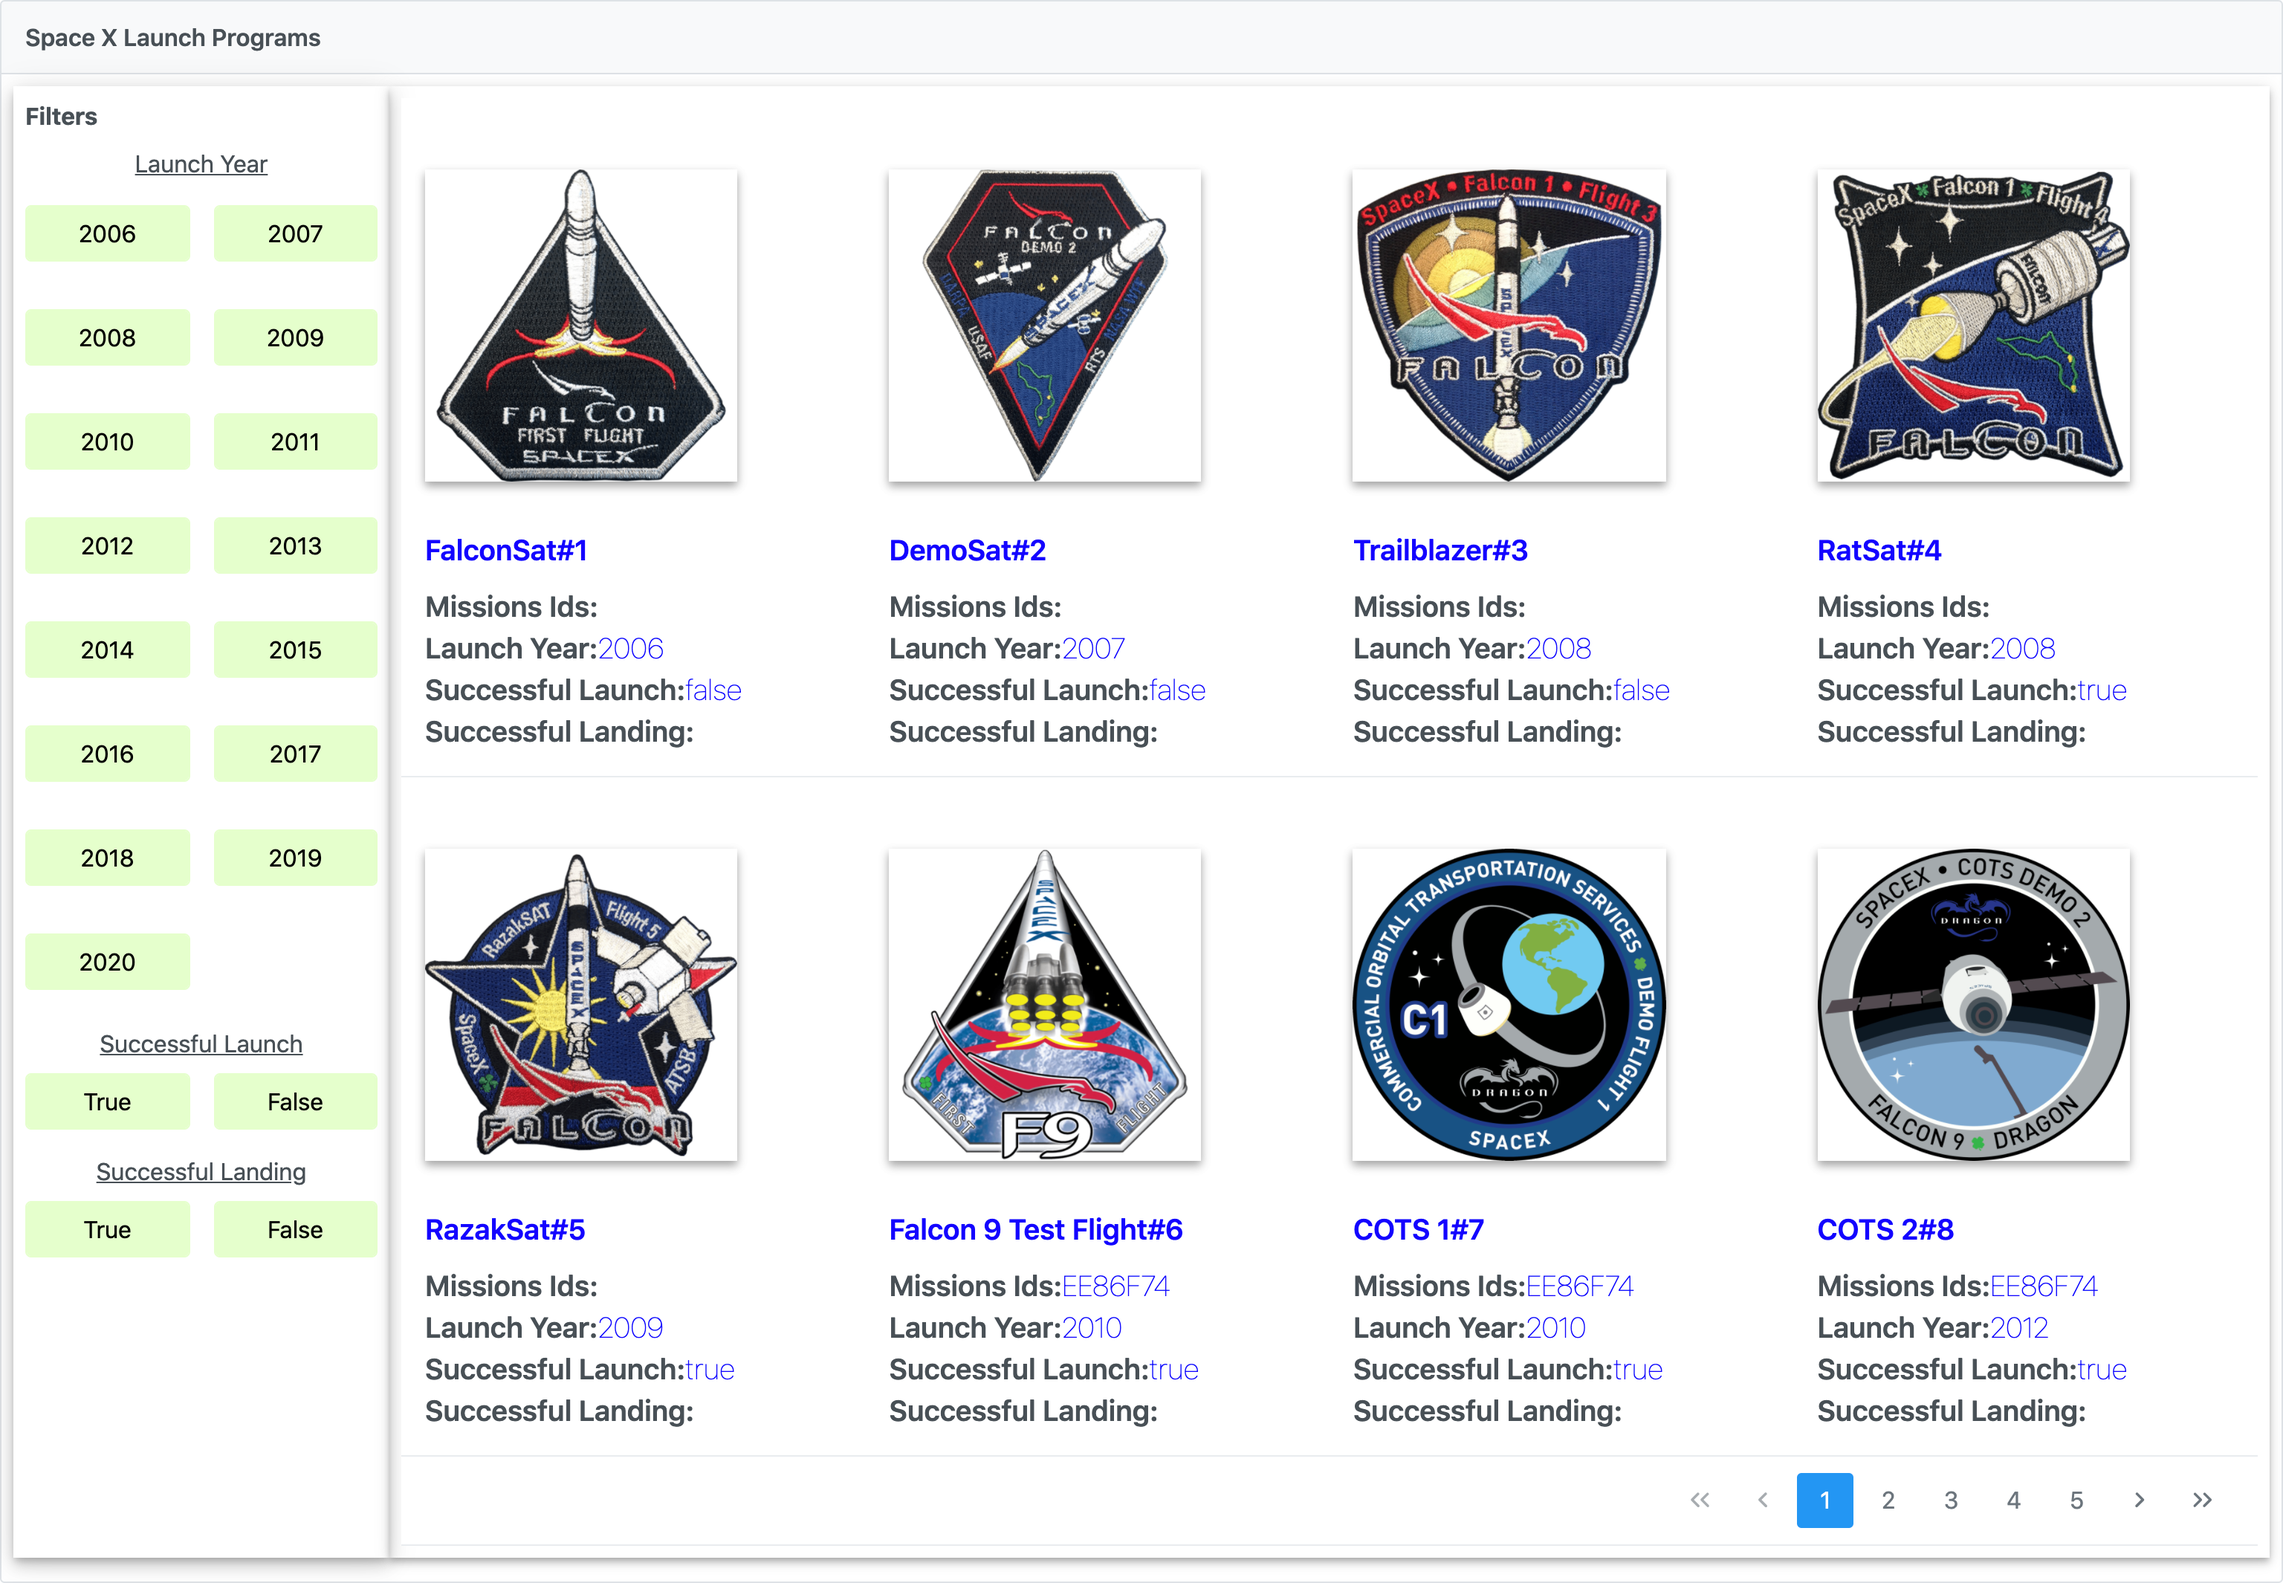
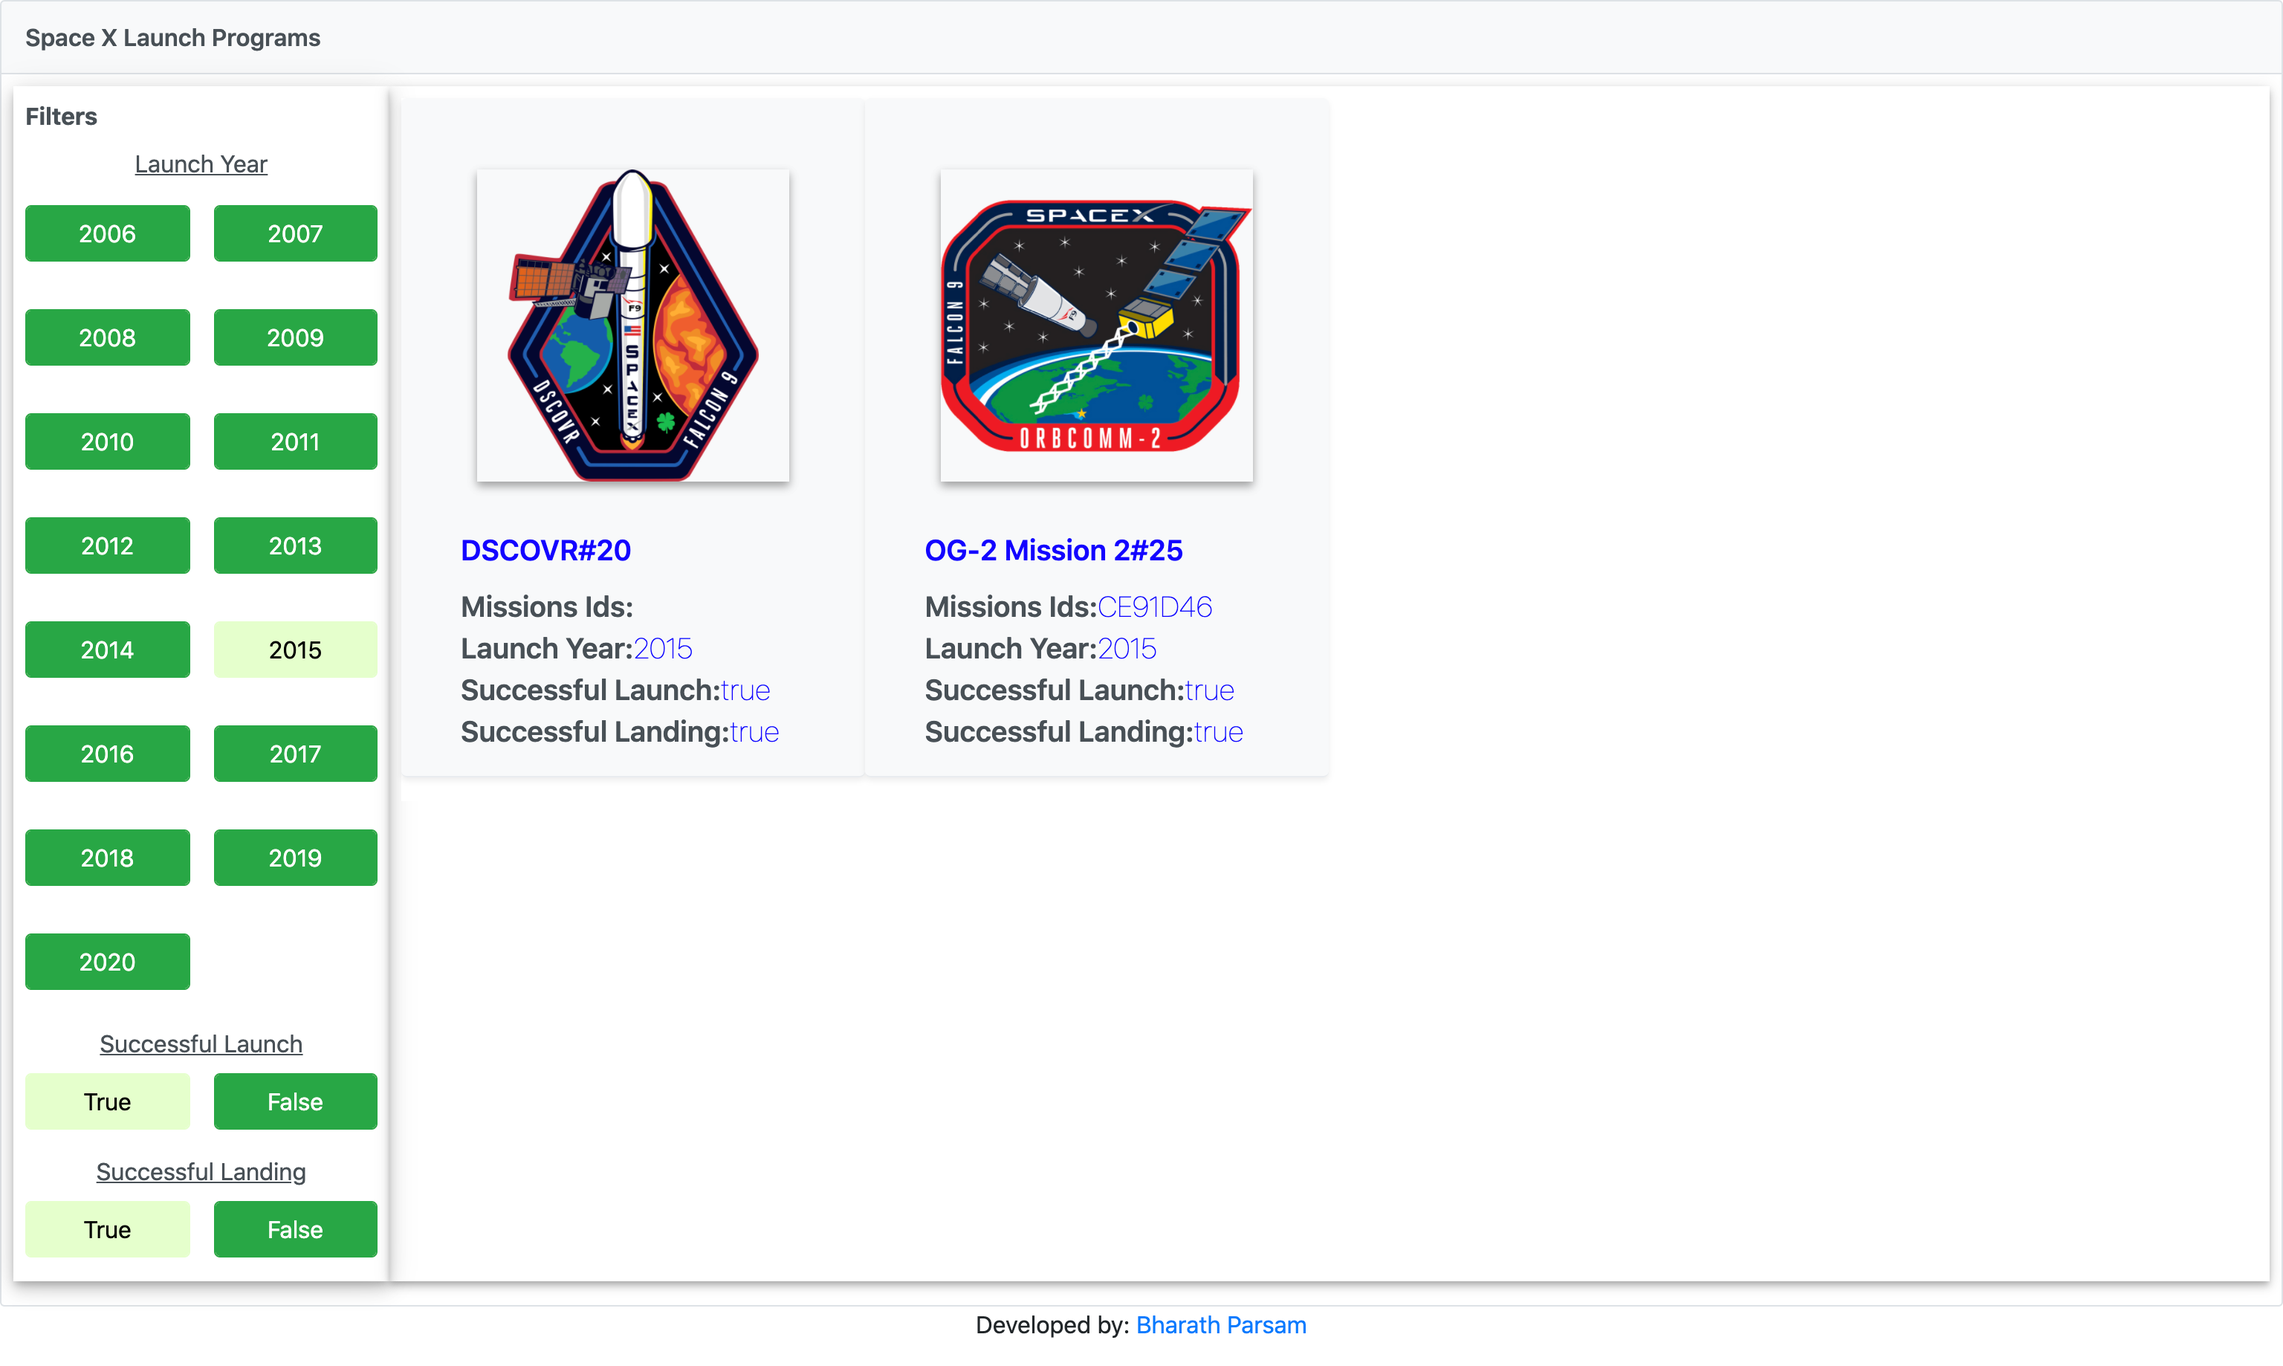
Added Footer and updated the screenshots

diff --git a/src/app/app.component.html b/src/app/app.component.html
@@ -1,3 +1,12 @@
 <div class="app-root">
 <router-outlet></router-outlet>
 </div>
+<footer class="footer">
+  <div class="container">
+  <div class="content text-center">
+    <p>
+      Developed by: <a href="https://github.com/bharathparsam">Bharath Parsam</a>
+    </p>
+  </div>
+  </div>
+  </footer>

diff --git a/src/app/portal/portal.component.ts b/src/app/portal/portal.component.ts
@@ -81,7 +81,6 @@ export class PortalComponent implements OnInit {
    * Assign the params and send the params to fetch the data
    */
   requestBasedOnFilters() {
-    debugger;
     this.query = {
       limitValue: 100,
       isLaunch: this.isLaunch,

diff --git a/src/app/services/config.service.ts b/src/app/services/config.service.ts
@@ -35,7 +35,6 @@ export class ConfigService {
    */
 
   public fetchlist(queryParams): Observable<any> {
-    debugger;
     let requestParams = {
       limit: queryParams.limitValue,
       launch_year: queryParams.year,

diff --git a/README.md b/README.md
@@ -8,13 +8,15 @@ This spaceX web-application allows the user to load the list of spaceX launches.
 
 ### Table of Contents
 
--   [How to clone the Git Repo](#How-to-clone-the-Git-Repo)
--   [Prerequisites](#Prerequisite)
--   [Node Modules Installation Steps](#Installation-steps)
--   [Run Development Server](#development-server)
--   [Generate Build Commands](#Build)
+- [How to clone the Git Repo](#How-to-clone-the-Git-Repo)
+- [Prerequisites](#Prerequisite)
+- [Node Modules Installation Steps](#Installation-steps)
+- [Running The Development Server](#development-server)
+- [Build Commands](#Build)
+- [Lighthouse Reports](#Lighthouse-Reports)
+- [Device Comptability Screen Shots](#Device-Comptability-Screen-Shots)
 
-* * *
+---
 
 ## How to clone the Git Repo
 
@@ -43,9 +45,22 @@ Lighthouse complete report pdf file is added in the results folder with the name
 
 The below snippet shows the lighthouse score.
 
-![Test Result](Result/screenshot.png)
+![Lighouthouse Result](Result/screenshot.png)
 
 ## Device Comptability Screen Shots
 
-![Mobile Test Result](Result/Desktop.png)
-![Desktop Test Result](Result/Mobile.png)
+### Inital Load 
+
+![Desktop Test Result](Result/Initialload.png)
+
+### Desktop
+
+![Desktop Test Result](Result/Desktop.png)
+
+### Tablet
+
+![Tablet Test Result](Result/Tablet.png)
+
+### Mobile
+
+![Mobile Test Result](Result/mobile.png)
